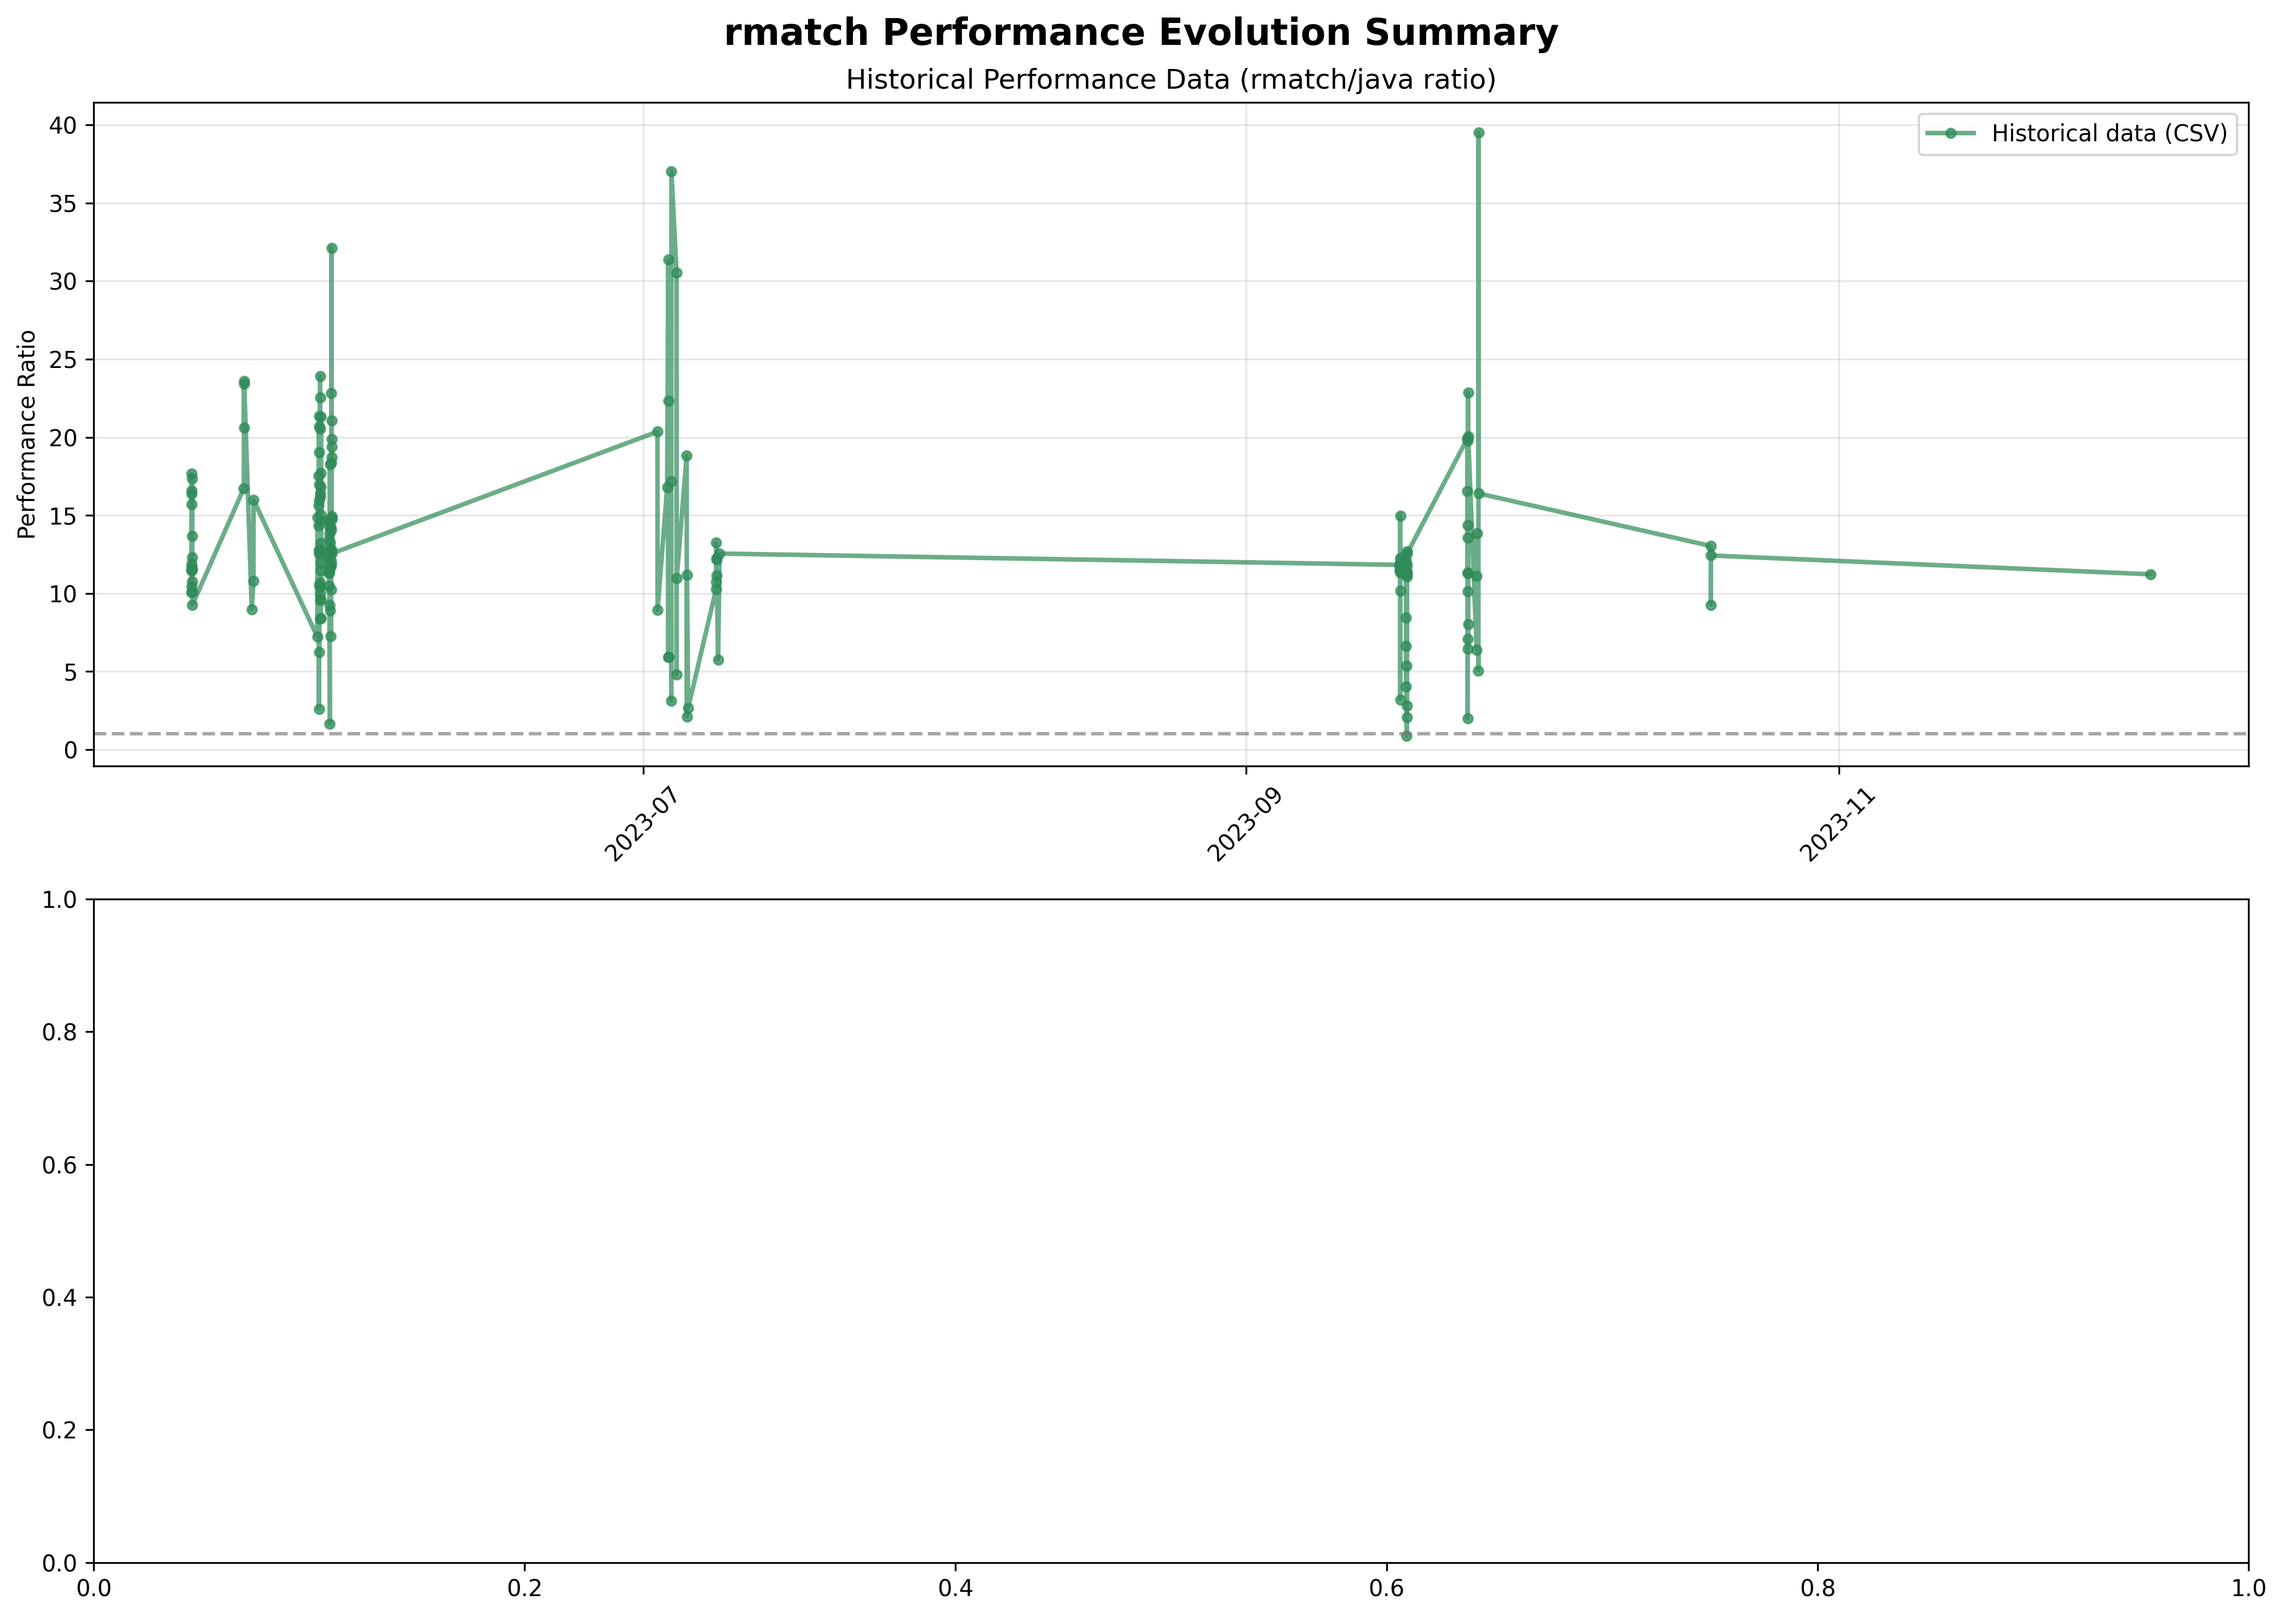
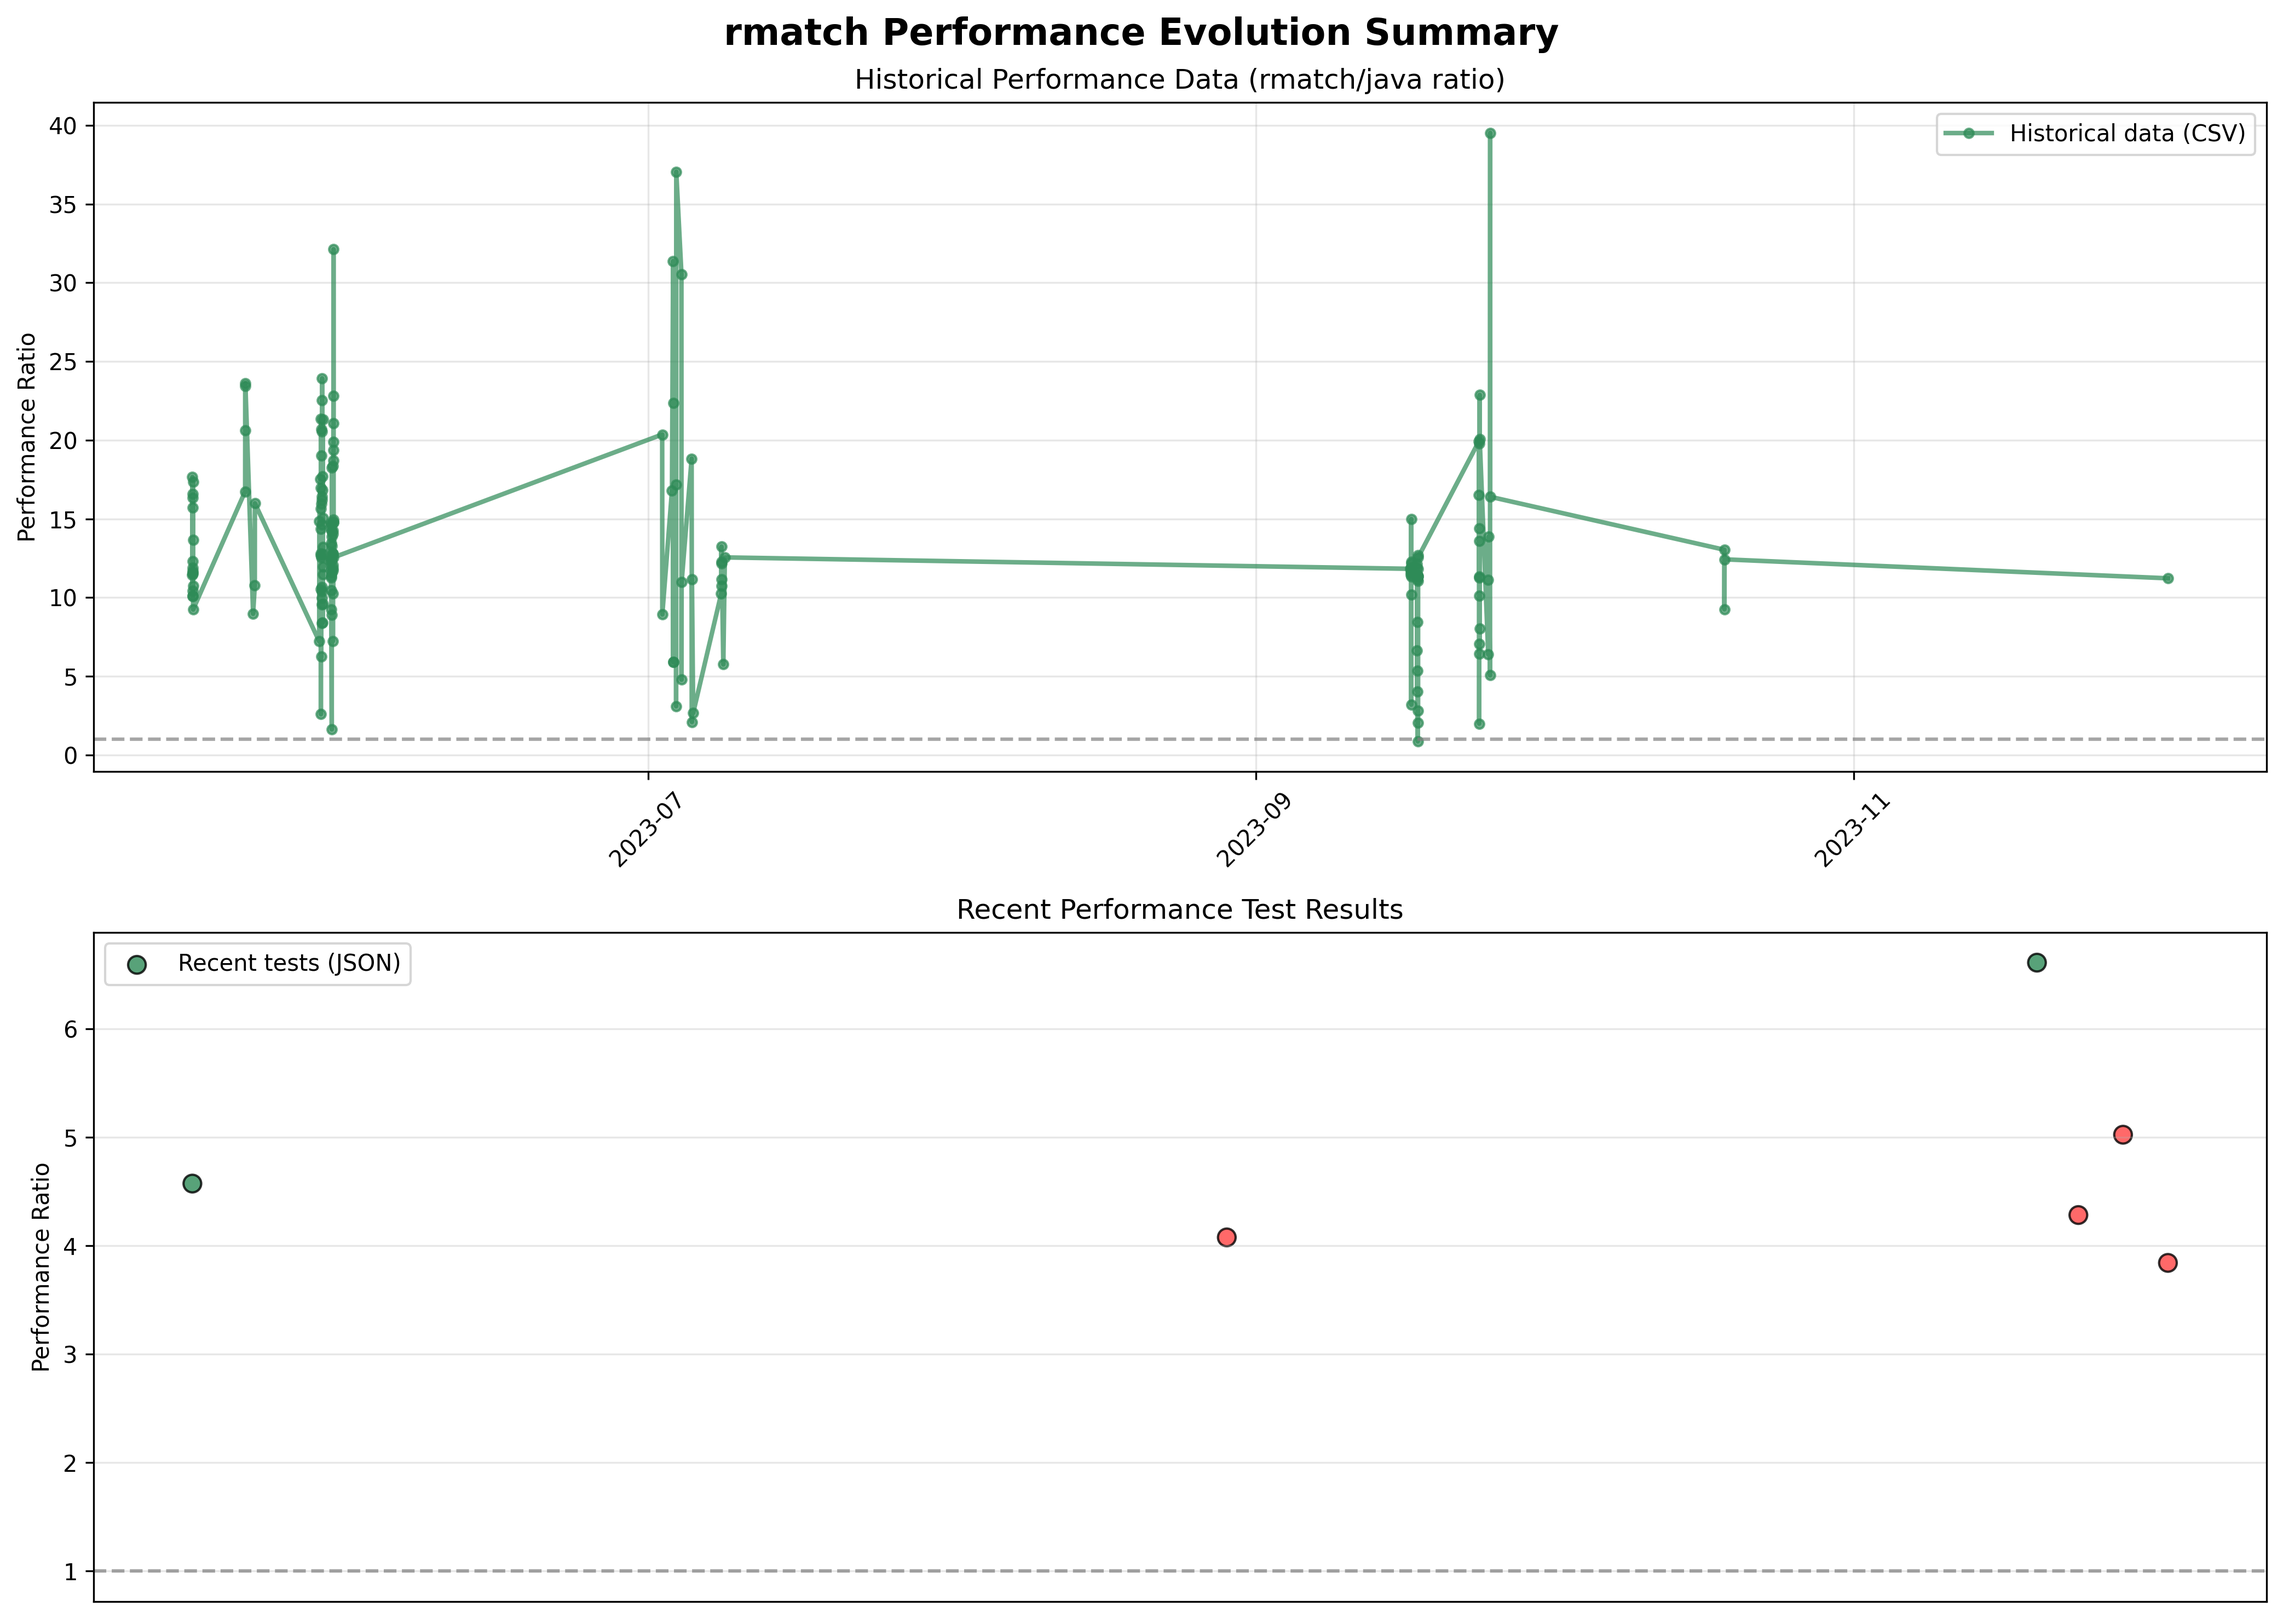
Complete performance charting enhancement with sample data and documentation

diff --git a/scripts/generate_performance_charts.py b/scripts/generate_performance_charts.py
@@ -69,10 +69,11 @@ def load_performance_data():
         for json_file in json_files:
             try:
                 with open(json_file, 'r') as f:
-                    data = pd.read_json(f)
+                    import json
+                    data = json.load(f)
                     
                 # Extract timestamp and performance data
-                timestamp = data.get('timestamp', [None])[0] if hasattr(data.get('timestamp', []), '__iter__') else data.get('timestamp')
+                timestamp = data.get('timestamp')
                 if timestamp:
                     # Create a row for this performance check
                     row_data = {
@@ -84,39 +85,27 @@ def load_performance_data():
                     # Extract performance metrics
                     if 'performance_result' in data:
                         perf_result = data['performance_result']
-                        if hasattr(perf_result, '__iter__') and len(perf_result) > 0:
-                            perf_result = perf_result.iloc[0] if hasattr(perf_result, 'iloc') else perf_result[0]
-                        
                         row_data.update({
-                            'status': perf_result.get('status') if hasattr(perf_result, 'get') else None,
-                            'time_improvement_percent': perf_result.get('time_improvement_percent') if hasattr(perf_result, 'get') else None,
-                            'memory_improvement_percent': perf_result.get('memory_improvement_percent') if hasattr(perf_result, 'get') else None,
-                            'statistically_significant': perf_result.get('statistically_significant') if hasattr(perf_result, 'get') else None
+                            'status': perf_result.get('status'),
+                            'time_improvement_percent': perf_result.get('time_improvement_percent'),
+                            'memory_improvement_percent': perf_result.get('memory_improvement_percent'),
+                            'statistically_significant': perf_result.get('statistically_significant')
                         })
                     
                     # Extract current results
                     if 'current_results' in data:
                         current_results = data['current_results']
-                        if hasattr(current_results, '__iter__') and len(current_results) > 0:
-                            current_results = current_results.iloc[0] if hasattr(current_results, 'iloc') else current_results[0]
+                        rmatch_results = current_results.get('rmatch', {})
+                        java_results = current_results.get('java', {})
                         
-                        if hasattr(current_results, 'get'):
-                            rmatch_results = current_results.get('rmatch', {})
-                            java_results = current_results.get('java', {})
-                            
-                            if hasattr(rmatch_results, 'get'):
-                                row_data.update({
-                                    'rmatch_avg_time_ms': rmatch_results.get('avg_time_ms'),
-                                    'rmatch_avg_memory_mb': rmatch_results.get('avg_memory_mb'),
-                                    'rmatch_count': rmatch_results.get('count')
-                                })
-                            
-                            if hasattr(java_results, 'get'):
-                                row_data.update({
-                                    'java_avg_time_ms': java_results.get('avg_time_ms'),
-                                    'java_avg_memory_mb': java_results.get('avg_memory_mb'),
-                                    'java_count': java_results.get('count')
-                                })
+                        row_data.update({
+                            'rmatch_avg_time_ms': rmatch_results.get('avg_time_ms'),
+                            'rmatch_avg_memory_mb': rmatch_results.get('avg_memory_mb'),
+                            'rmatch_count': rmatch_results.get('count'),
+                            'java_avg_time_ms': java_results.get('avg_time_ms'),
+                            'java_avg_memory_mb': java_results.get('avg_memory_mb'),
+                            'java_count': java_results.get('count')
+                        })
                     
                     # Create a DataFrame with this single row
                     df = pd.DataFrame([row_data])

diff --git a/PERFORMANCE_CHARTS.md b/PERFORMANCE_CHARTS.md
@@ -1,0 +1,142 @@
+# Performance Charts Documentation
+
+This document explains the performance visualization system in rmatch, which automatically generates charts from both historical and recent performance test data.
+
+## Overview
+
+The performance charting system supports multiple data sources and generates different types of visualizations to track rmatch's performance evolution over time.
+
+## Chart Types
+
+### Historical Performance Charts (CSV-based)
+- **Source**: `rmatch-tester/logs/*.csv`
+- **Data Period**: Historical data from 2023
+- **Charts Generated**:
+  - `performance_evolution.png` - Comprehensive 4-panel view with execution time, memory usage, performance ratios, and test scale
+  - `performance_trend.png` - Simplified chart for README inclusion
+  - `simple_performance_evolution.png` - Basic time-series from individual test runs
+
+### Recent Performance Test Charts (JSON-based)
+- **Source**: `benchmarks/results/performance-check-*.json`
+- **Data Period**: Recent automated performance tests
+- **Charts Generated**:
+  - `performance_check_evolution.png` - Detailed 4-panel view showing:
+    - Execution time comparison (rmatch vs Java regex)
+    - Memory usage comparison
+    - Performance improvement percentages
+    - Test status evolution (PASS/WARNING/FAIL)
+  - `performance_check_overview.png` - Simplified scatter plot for recent results
+
+### Combined Charts
+- **`performance_summary.png`** - Two-panel view combining historical CSV data (top) with recent JSON data (bottom)
+
+## Usage
+
+### Generating Charts Manually
+```bash
+# Generate all charts from available data
+python3 scripts/generate_performance_charts.py
+
+# Generate sample performance data for demonstration
+./scripts/generate_sample_performance_data.sh
+```
+
+### Automatic Generation
+Charts are automatically generated by:
+1. GitHub Actions workflow `.github/workflows/update-performance-charts.yml`
+2. Triggered on pushes to main/master branch
+3. Runs daily at 6 AM UTC
+4. Also triggered manually via workflow_dispatch
+
+### Adding New Performance Data
+
+#### For CSV Data (Legacy)
+Add files to `rmatch-tester/logs/` in the expected format:
+- `large-corpus-log.csv` - Comprehensive comparison data
+- `logfile-*.csv` - Individual test run data
+
+#### For JSON Data (Recommended)
+Run performance tests that generate JSON reports:
+```bash
+./mvnw -q -B -pl rmatch-tester exec:java \
+  -Dexec.mainClass=no.rmz.rmatch.performancetests.GitHubActionPerformanceTestRunner \
+  -Dexec.args="100 3"  # 100 regexps, 3 runs
+```
+
+This generates files in `benchmarks/results/performance-check-*.json` format.
+
+## Data Format Details
+
+### JSON Performance Check Format
+```json
+{
+  "timestamp": "2025-09-07T13:52:40.250020663Z",
+  "performance_result": {
+    "status": "PASS",
+    "explanation": "Performance improvement: time 3.1%, memory 87.2%",
+    "time_improvement_percent": 0.031,
+    "memory_improvement_percent": 0.872,
+    "statistically_significant": false
+  },
+  "current_results": {
+    "rmatch": {
+      "count": 3,
+      "avg_time_ms": 393.33,
+      "avg_memory_mb": 89.33
+    },
+    "java": {
+      "count": 3,
+      "avg_time_ms": 86.0,
+      "avg_memory_mb": 90.33
+    }
+  }
+}
+```
+
+### CSV Legacy Format
+- `large-corpus-log.csv`: timestamp, testSeriesId, metadata, matcherTypeName1, usedMemoryInMb1, durationInMillis1, matcherTypeName2, usedMemoryInMb2, durationInMillis2, ...
+- `logfile-*.csv`: NoOfRegexps, javaMillis, regexMillis, quotient
+
+## Chart Interpretation
+
+### Status Colors in Recent Performance Charts
+- 🟢 **Green**: PASS - Performance meets criteria
+- 🟠 **Orange**: WARNING - Performance within noise threshold
+- 🔴 **Red**: FAIL - Performance regression detected
+
+### Performance Ratios
+- **< 1.0**: rmatch is faster than Java regex (better)
+- **= 1.0**: Equal performance (parity line)
+- **> 1.0**: rmatch is slower than Java regex (worse)
+
+## Customization
+
+### Adding New Chart Types
+1. Create a new function in `scripts/generate_performance_charts.py`
+2. Follow the pattern of existing chart functions
+3. Call the function from `main()`
+4. Update documentation
+
+### Modifying Chart Appearance
+Charts use matplotlib with seaborn styling. Key customization points:
+- Color schemes: Modify the color definitions in chart functions
+- Chart size: Adjust `figsize` parameters
+- Data filtering: Modify data selection logic for time ranges
+- Styling: Update matplotlib styling options
+
+## Troubleshooting
+
+### No Charts Generated
+- Check that data sources exist (`rmatch-tester/logs/*.csv` or `benchmarks/results/*.json`)
+- Verify Python dependencies are installed: `pip install pandas matplotlib seaborn numpy`
+- Check for error messages in the script output
+
+### Charts Look Empty
+- Ensure timestamp fields are valid and parseable
+- Check that required columns exist in the data
+- Verify data types match expected formats
+
+### Performance Test Failures
+- Performance tests may "fail" if rmatch is slower than baseline - this is expected behavior
+- The test status is separate from chart generation success
+- Charts will still be generated even if tests fail performance criteria
